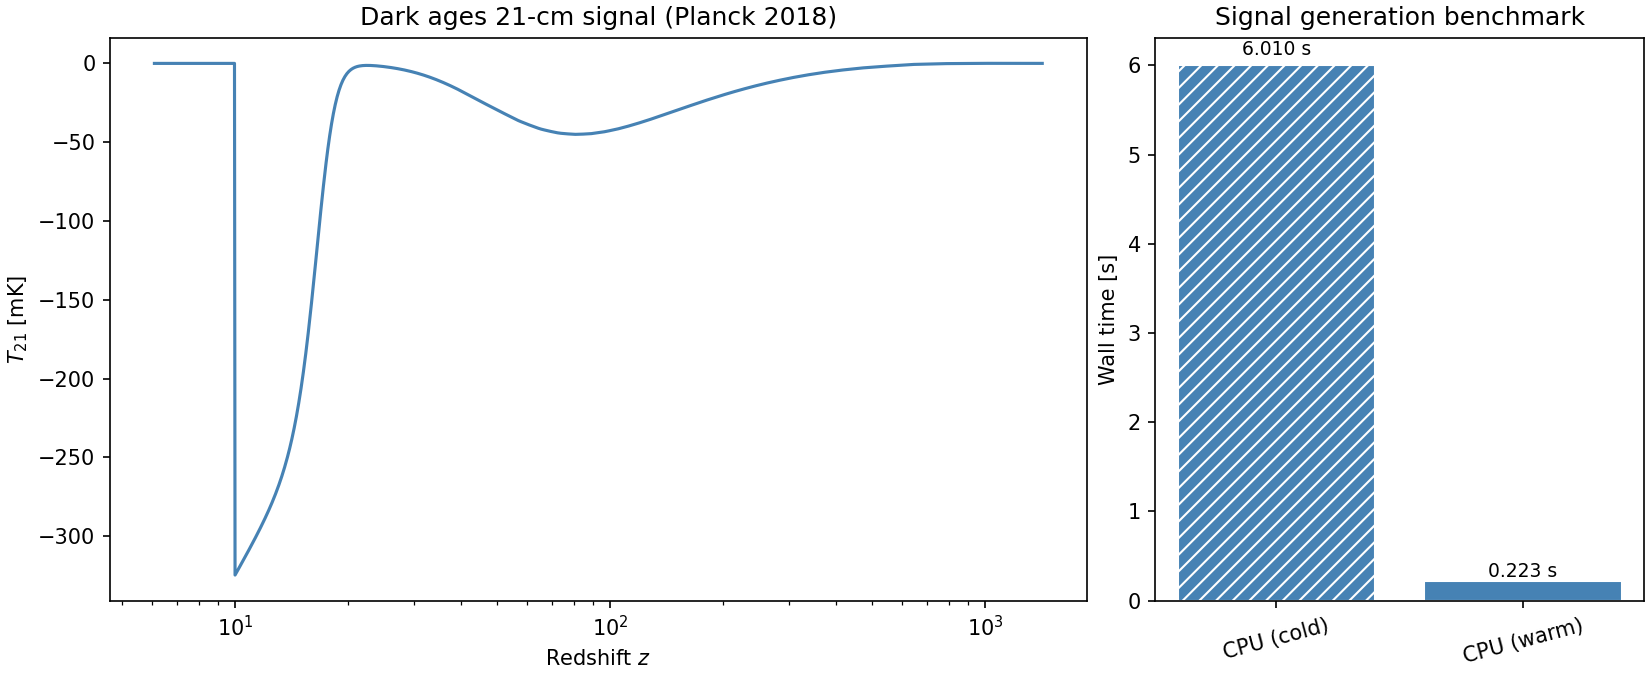
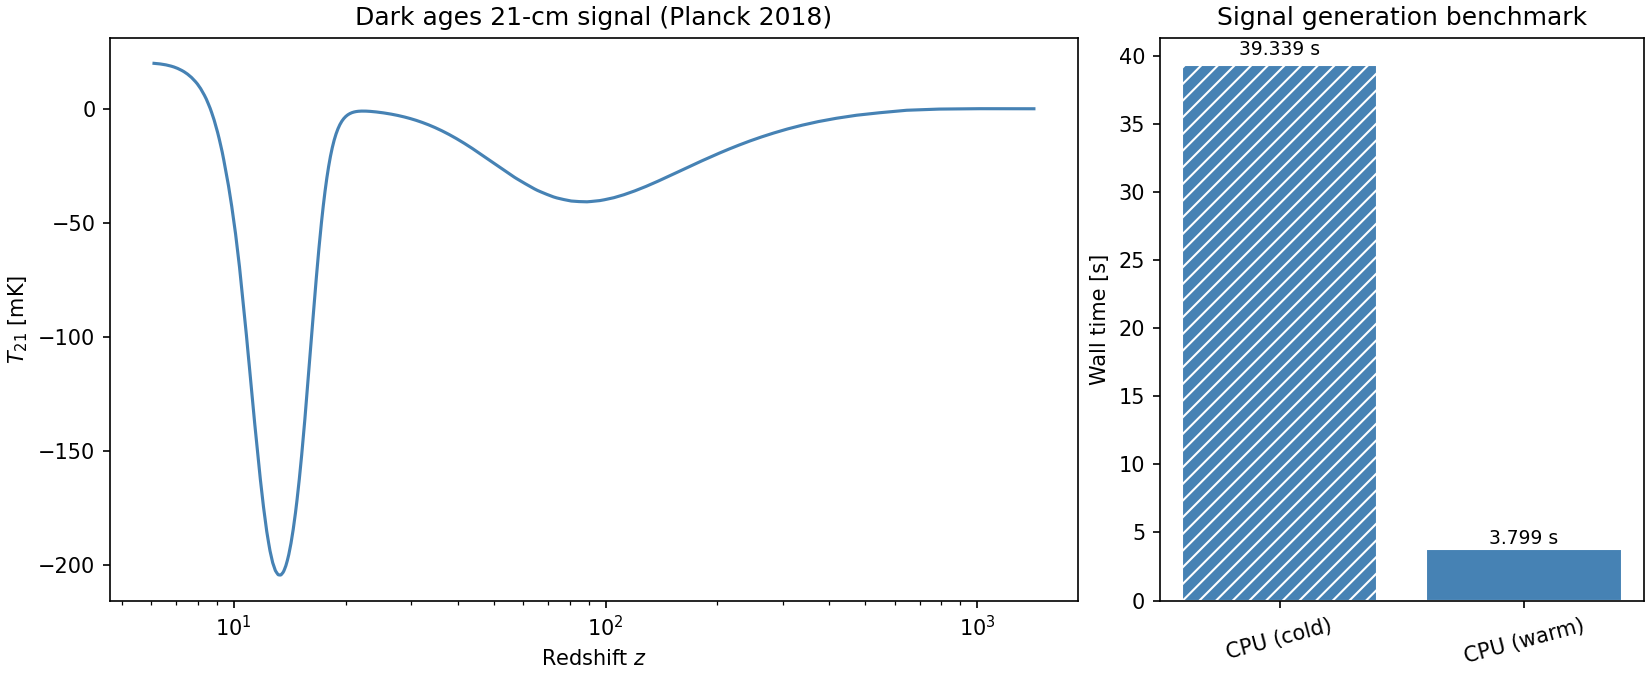
bit of jitting

diff --git a/hyprfine/recombination/odes.py b/hyprfine/recombination/odes.py
@@ -8,23 +8,24 @@ from hyprfine.analytic.xrays import J_X, sigma_X
 from hyprfine.parameters import astrophysics, const, cosmology
 from hyprfine.utils.cosmology import H, n_H_tot
 
-
+@jax.jit
 def f_heat_SSvS(xe):
     xe = jnp.clip(xe, 0.0, 1.0)
     return 0.9971 * (1 - (1 - xe**0.2663) ** 1.3163)
 
-
+@jax.jit
 def f_ion_SSvS(xe):
     xe = jnp.clip(xe, 0.0, 1.0)
     return 0.3908 * (1 - xe**0.4092) ** 1.7592
 
-
+@jax.jit
 def dt_dz(z, cosmo):
     """dt/dz in seconds per unit redshift."""
     H_z = H(z, cosmo) * 1e3 / const.Mpc  # s^-1
     return -1.0 / (H_z * (1 + z))
 
 
+@jax.jit
 def dTk_dz(z, Tk, xe, cosmo, Q_X):
     """dT_k/dz including adiabatic cooling, Compton heating, X-ray heating.
 
@@ -39,9 +40,6 @@ def dTk_dz(z, Tk, xe, cosmo, Q_X):
         dTk/dz in K.
     """
     dtdz = dt_dz(z, cosmo)
-
-    # Adiabatic cooling [K/s]
-    adiabatic = -2 * Tk / dt_dz(z, cosmo) / (1 + z)
 
     # Compton heating [K/s]
     T_cmb_z = const.Tcmb0 * (1 + z)
@@ -62,7 +60,7 @@ def dTk_dz(z, Tk, xe, cosmo, Q_X):
 
     return 2 * Tk / (1 + z) + dtdz * (compton_rate + xray_rate)
 
-
+@jax.jit
 def dxe_dz(z, Tk, xe, cosmo, Gamma_X):
     """dx_e/dz including recombination and X-ray secondary ionization.
 
@@ -126,6 +124,11 @@ def evolve_igm(
     h_nu_HI = const.h_planck_cgs * 3.288e15  # erg
     sig = sigma_X(nu)
 
+    def interp_jx(j_nu, z):
+        return jnp.interp(z, z_grid, j_nu)
+    
+    vmapped_interp_jx = jax.vmap(interp_jx, in_axes=(0, None))
+
     def vector_field(z, state, args):
         Tk, xe = state
         cosmo, astro = args
@@ -134,9 +137,7 @@ def evolve_igm(
         Tk = jnp.maximum(Tk, 0.1)  # prevent Tk going to zero
 
         # Interpolate J_X at current z
-        jx = jax.vmap(
-            lambda jx_nu: jnp.interp(z, z_grid, jx_nu)
-        )(jx_grid_T)
+        jx = vmapped_interp_jx(jx_grid_T, z)
 
         nH_cm3 = n_H_tot(z, cosmo) * 1e-6
         f_heat = f_heat_SSvS(xe)

diff --git a/bin/benchmark.py b/bin/benchmark.py
@@ -16,6 +16,10 @@ import numpy as np
 
 from hyprfine.analytic.main import generate_signal
 from hyprfine.parameters import cosmology, astrophysics
+import sys
+
+if len(sys.argv) > 1 and sys.argv[1] == "--no-gpu":
+    skip_gpu = True
 
 # ---------------------------------------------------------------------------
 # Planck 2018 cosmology
@@ -80,14 +84,15 @@ results = {"CPU (cold)": cpu_cold, "CPU (warm)": cpu_warm}
 # Optionally benchmark CUDA GPU
 # ---------------------------------------------------------------------------
 try:
-    gpus = jax.devices("gpu")
-    if gpus:
-        gpu = gpus[0]
-        print(f"Benchmarking GPU ({gpu.device_kind})...")
-        gpu_cold, gpu_warm, _ = time_device(gpu)
-        print(f"  Cold: {gpu_cold:.3f} s   Warm: {gpu_warm:.3f} s")
-        results["GPU (cold)"] = gpu_cold
-        results["GPU (warm)"] = gpu_warm
+    if not skip_gpu:
+        gpus = jax.devices("gpu")
+        if gpus:
+            gpu = gpus[0]
+            print(f"Benchmarking GPU ({gpu.device_kind})...")
+            gpu_cold, gpu_warm, _ = time_device(gpu)
+            print(f"  Cold: {gpu_cold:.3f} s   Warm: {gpu_warm:.3f} s")
+            results["GPU (cold)"] = gpu_cold
+            results["GPU (warm)"] = gpu_warm
 except RuntimeError:
     print("No CUDA GPU found — skipping GPU benchmark.")
 

diff --git a/hyprfine/analytic/xrays.py b/hyprfine/analytic/xrays.py
@@ -9,6 +9,7 @@ from hyprfine.utils.cosmology import H, n_H_tot
 
 vmapped_mean_sfrd = jax.vmap(mean_sfrd, in_axes=(0, None, None, None))
 
+@jax.jit
 def J_X(
     z: float,
     cosmo: cosmology,
@@ -73,6 +74,7 @@ def J_X(
         integrand, R, axis=0
     ) * unit_factor  # erg/s/cm^2/Hz/sr
 
+@jax.jit
 def calculate_epsilon_x_tot(
     z_source: float,
     z_21: float,
@@ -108,6 +110,7 @@ vmapped_calculate_epsilon_x_tot = (
     jax.vmap(calculate_epsilon_x_tot, in_axes=(0, None, None, None))
 )
 
+@jax.jit
 def calculate_epsilon_x_intrinsic(
     nu: jnp.ndarray,
     L40: float = 1.0,
@@ -149,6 +152,7 @@ def calculate_epsilon_x_intrinsic(
 
     return epsilon_x
 
+@jax.jit
 def sigma_X(nu: jnp.ndarray) -> jnp.ndarray:
     """HI photoionization cross section.
 
@@ -164,7 +168,7 @@ def sigma_X(nu: jnp.ndarray) -> jnp.ndarray:
     sigma_0 = 6.3e-18  # cm^2
     return jnp.where(nu >= nu_HI, sigma_0 * (nu / nu_HI) ** (-3), 0.0)
 
-
+@jax.jit
 def tau_X(
     nu_obs: float,
     z_obs: float,

diff --git a/hyprfine/utils/cosmology.py b/hyprfine/utils/cosmology.py
@@ -6,7 +6,7 @@ import jax.numpy as jnp
 from hyprfine.matterpower import matterpowerspec
 from hyprfine.parameters import const, cosmology
 
-
+@jax.jit
 def H(z: float, cosmo: cosmology) -> float:
     """Calculate the Hubble parameter H in s^-1.
 

diff --git a/hyprfine/analytic/wouthuysen_field.py b/hyprfine/analytic/wouthuysen_field.py
@@ -41,6 +41,7 @@ _NU_GRID = 10 ** jnp.arange(
     jnp.log10(const.lyman_alpha_freq), jnp.log10(const.lyman_limit), 0.001
 )
 
+@jax.jit
 def J_alpha(
     z: float,
     cosmo: cosmology,
